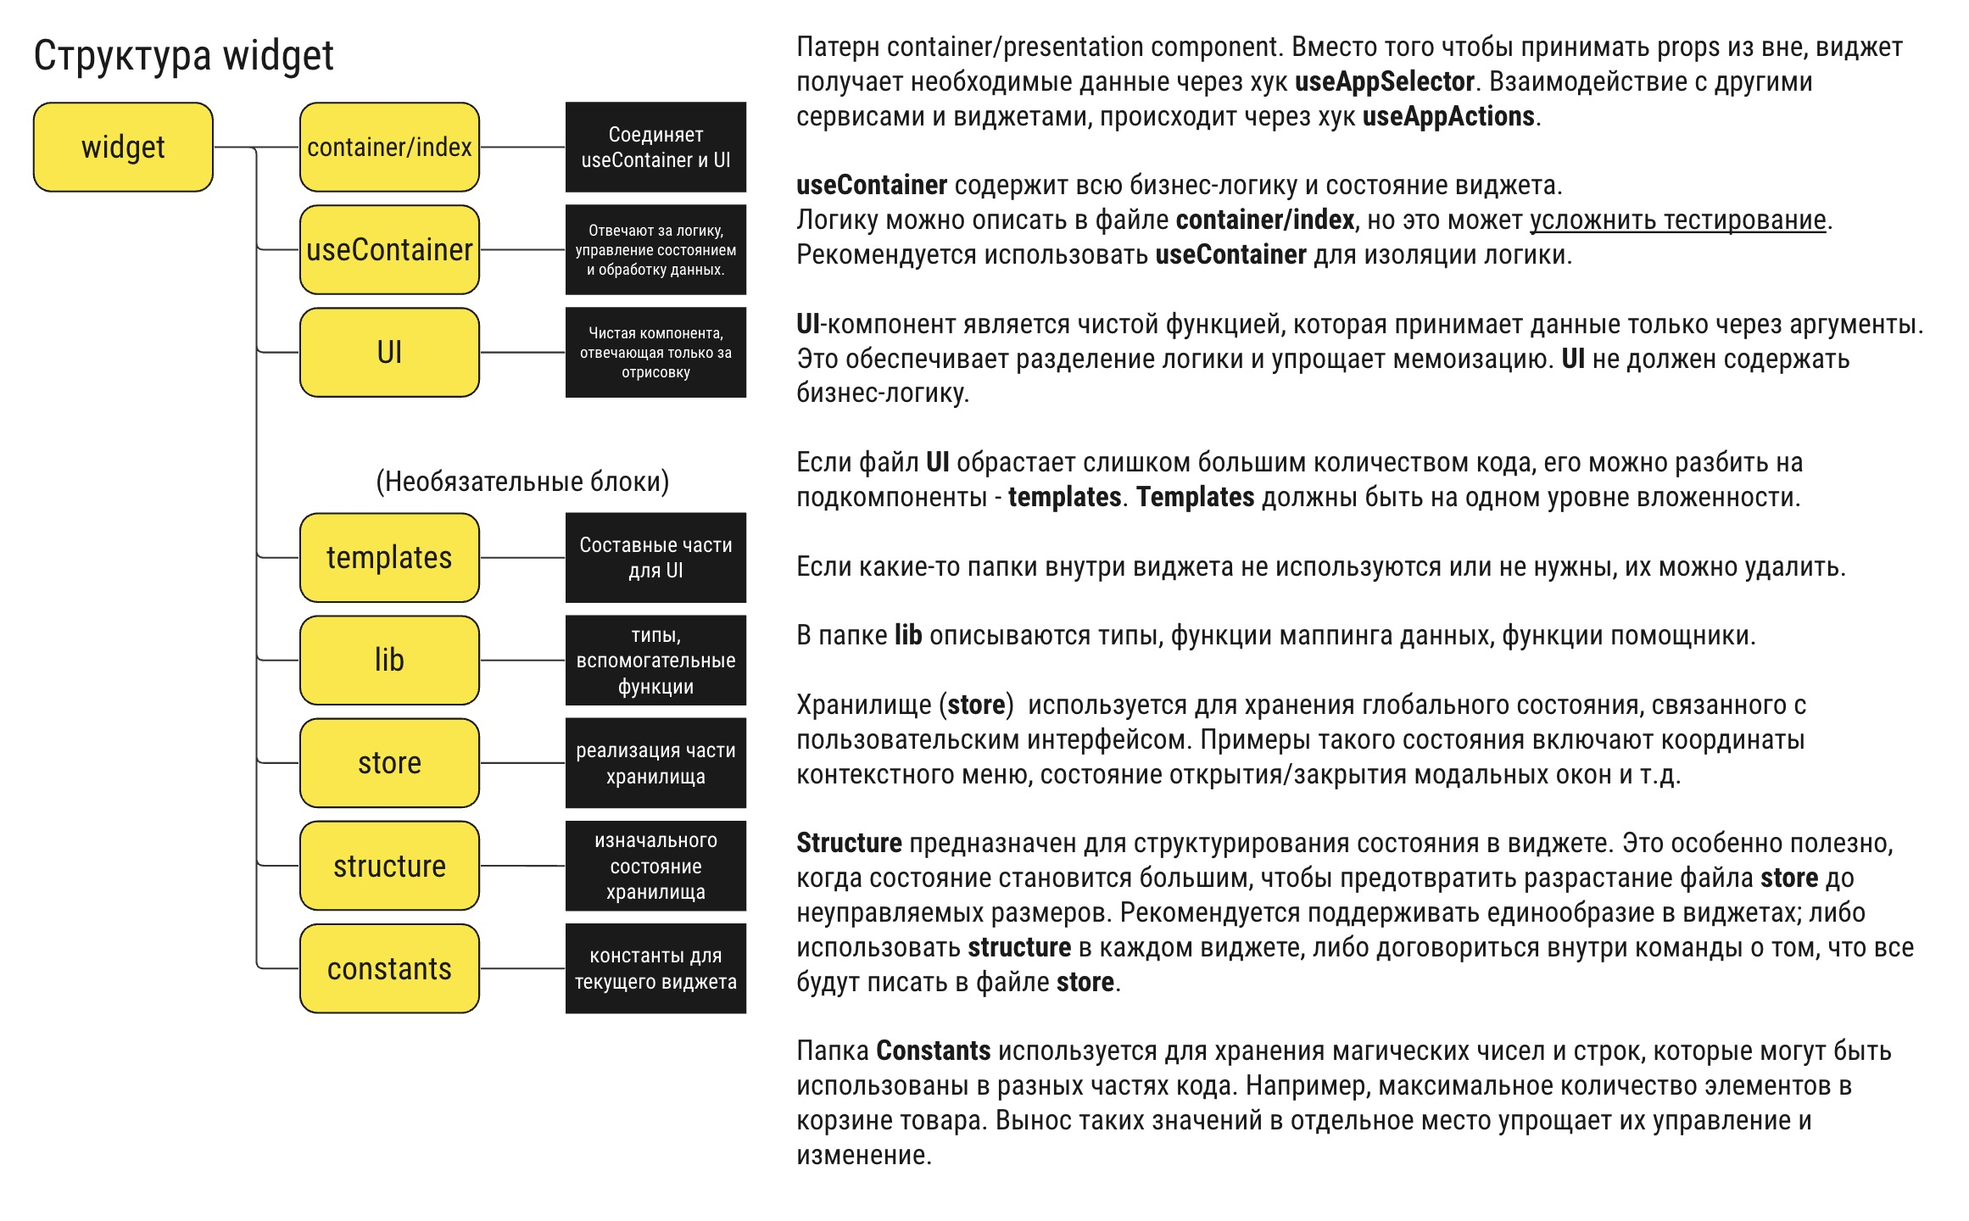
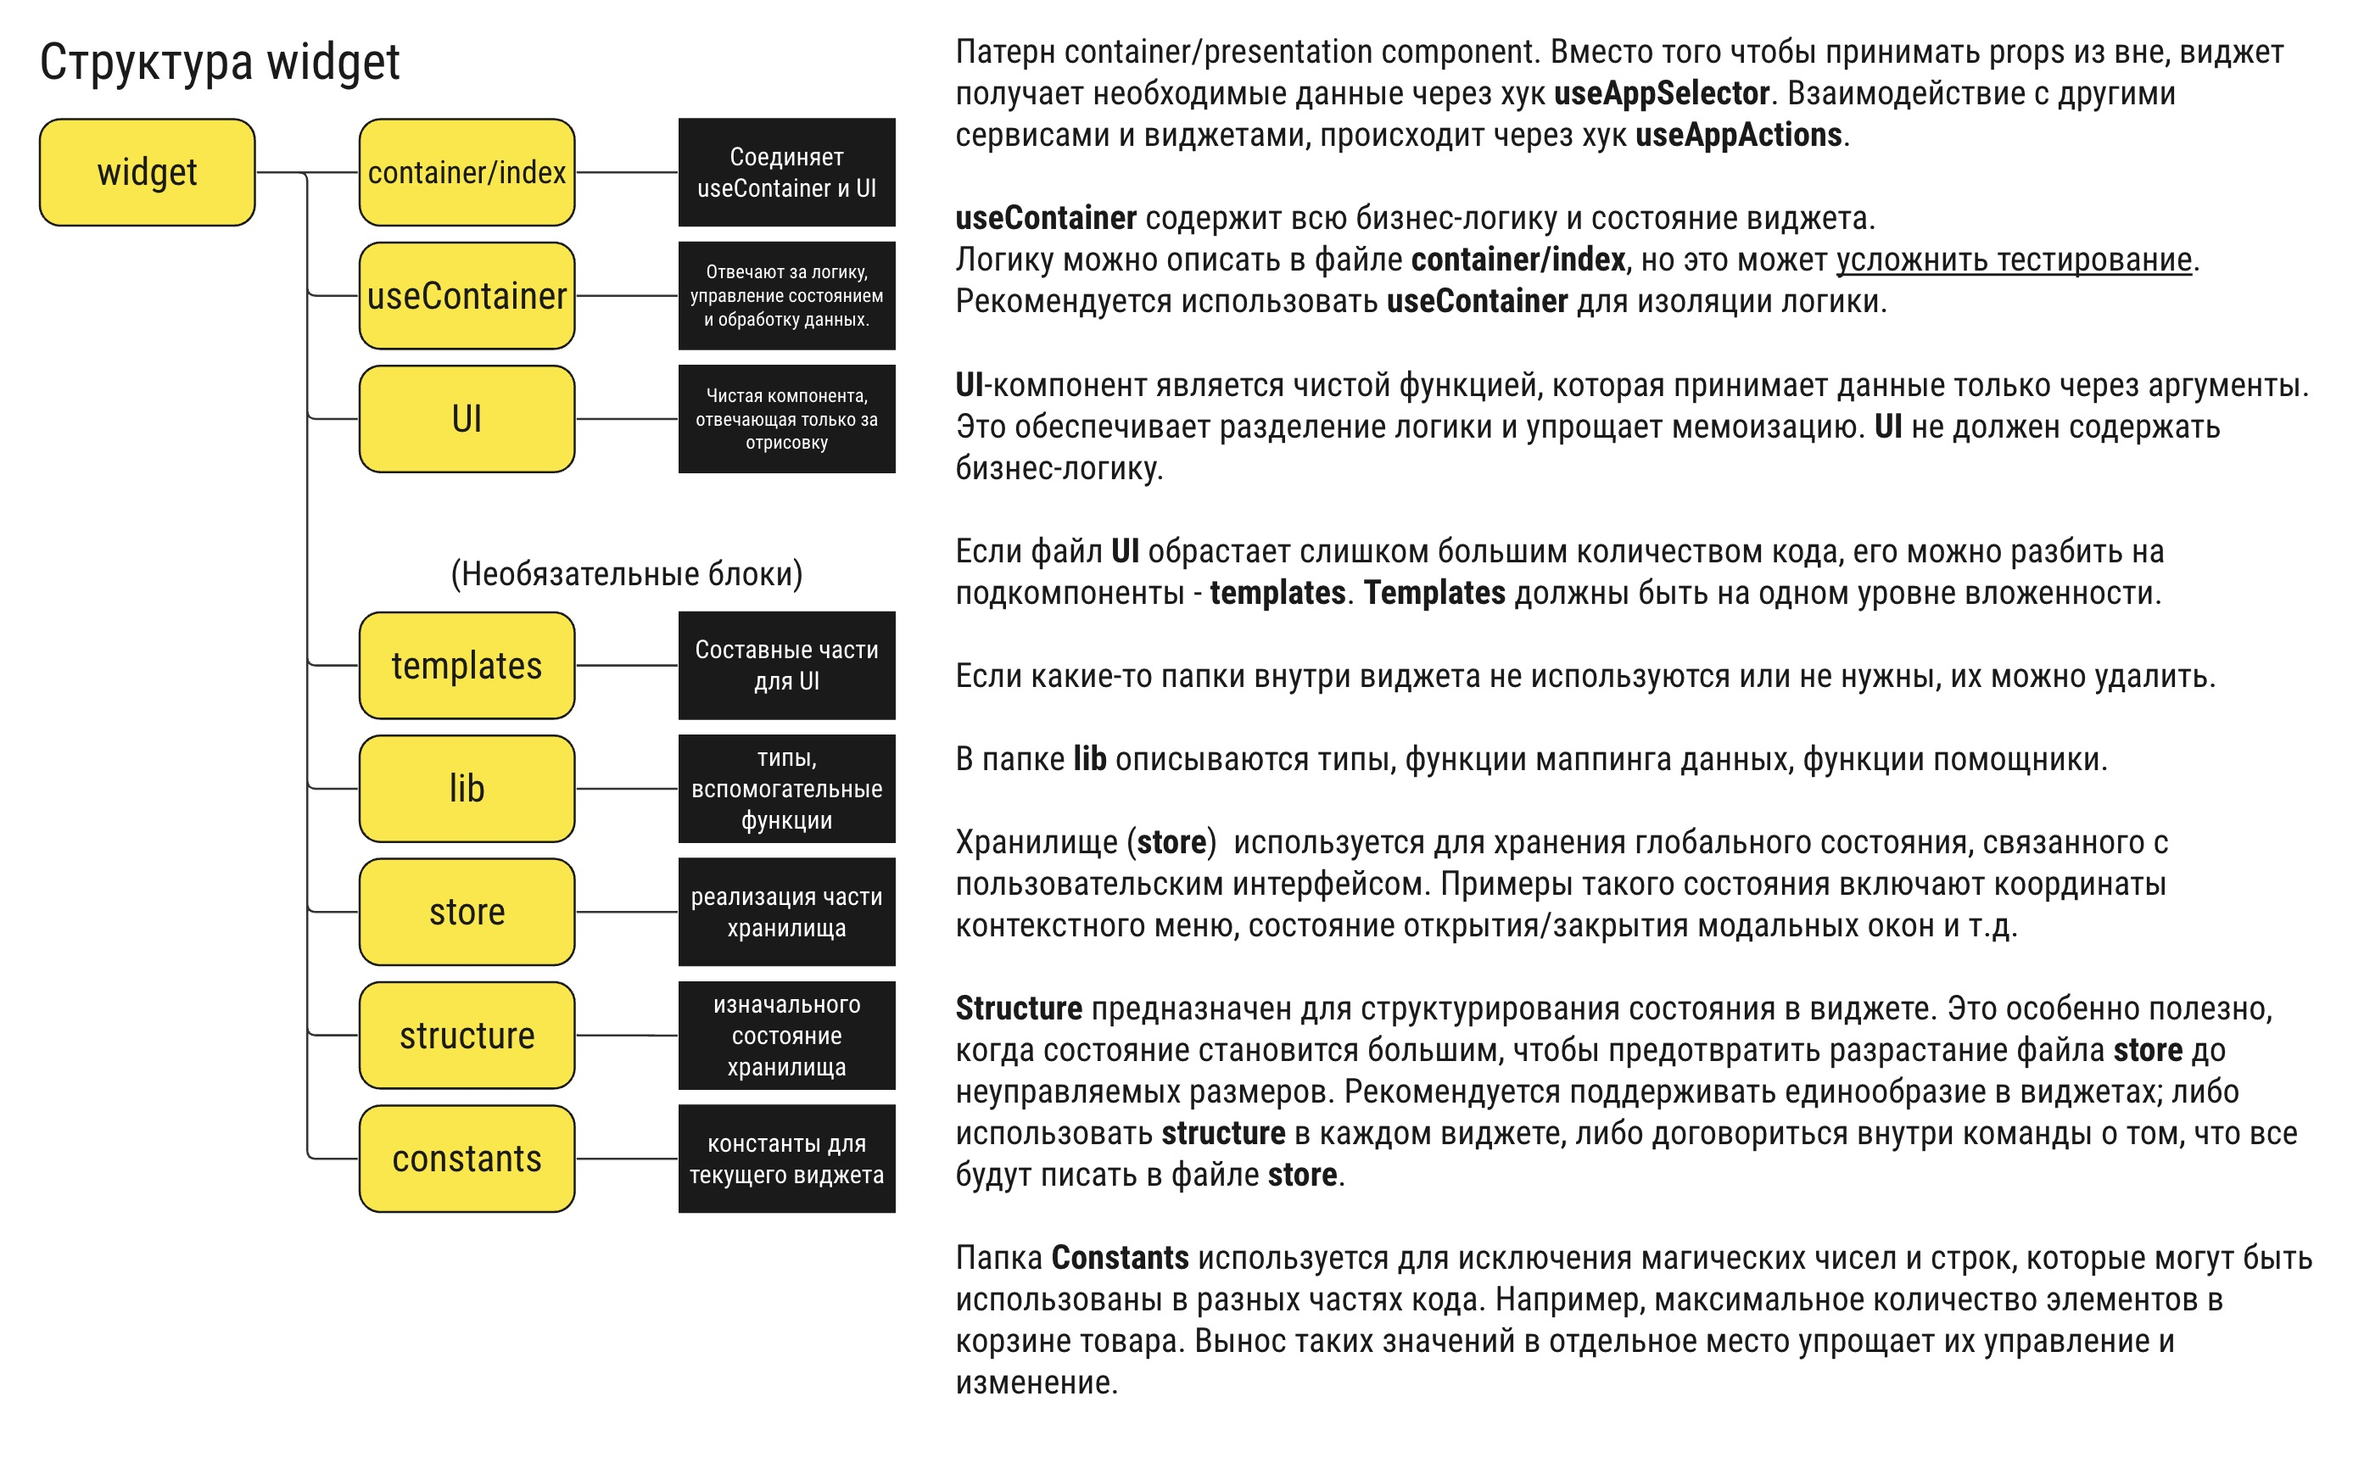
Оптимизация структуры

diff --git a/apps/react_blank/src/features/services/_sample/store/index.ts b/apps/react_blank/src/features/services/_sample/store/index.ts
@@ -1,7 +1,7 @@
 import { createSlice, PayloadAction } from '@reduxjs/toolkit'
 import { name } from '../constants/name'
+import { asyncActions } from '../effects/export'
 import { initialState } from '../structure'
-import { asyncActions } from '../thunks/export'
 
 export const slice = createSlice({
   name,

diff --git a/apps/react_blank/src/app/entry/ui/index.tsx b/apps/react_blank/src/app/entry/ui/index.tsx
@@ -3,7 +3,7 @@ import { AppRouter } from '@app/router'
 import { appSize } from '@services/appSize'
 import { condition } from '@services/condition'
 
-import '@services/localization'
+import 'app/localization'
 
 export const App: FC = () => (
   <div>

diff --git a/apps/react_blank/.config.locale.js b/apps/react_blank/.config.locale.js
@@ -1,6 +1,6 @@
 const path = require('path')
 
-const localesFolder = './src/features/services/localization/locales'
+const localesFolder = './src/app/localization/locales'
 
 module.exports = {
   apiKey: 'AIzaSyAT2uFOrgZVvZTMmQPk7slY98d80BWcjtk',

diff --git a/apps/react_blank/src/features/services/_sample/index.tsx b/apps/react_blank/src/features/services/_sample/index.tsx
@@ -1,6 +1,6 @@
 import { RestAPI } from './api'
 import { useContainer } from './container'
-import * as Selectors from './selectors'
+import * as Selectors from './mappers'
 import { Actions, Reducer } from './store'
 
 export const sample = {

diff --git a/apps/react_blank/README.md b/apps/react_blank/README.md
@@ -1,10 +1,26 @@
 # Архитектура
 
-> Основой архитектуры является **_"Вертикальный Срез"_** _(Vertical Slice)_ , сочетающая преимущества _**Feature Slice Design**_ _(FSD)_ и _**Слоеной архитектуры**_ _**(Layered Architecture)**_. Вертикальные срезы повышают модульность, упрощают навигацию по коду и ограничивают изменения в рамках одной фичи. Использование слоев обеспечивает разделение ответственности и упрощает тестирование и поддержку кода. В проекте показан пример на redux toolkit, но вы можете менять технологии как вам вздумается.
+> Основой архитектуры является **_"Вертикальный Срез"_** _(Vertical Slice)_ , сочетающая преимущества
+_**Feature Slice Design**_ _(FSD)_ и _**Слоеной архитектуры**_ _**(Layered Architecture)**_. Вертикальные срезы повышают
+> модульность, упрощают навигацию по коду и ограничивают изменения в рамках одной фичи. Использование слоев обеспечивает
+> разделение ответственности и упрощает тестирование и поддержку кода. В проекте показан пример на redux toolkit, но вы
+> можете менять технологии как вам вздумается.
 
 ![img.png](docs/i1.png)
 
 > Слой **_app_**: инициализация приложения.
+
+> Слой **_service_**: отдельные логические реализации:
+>
+> Все **_service_** должны наименоваться с маленькой буквы в файле index.tsx, чтобы не было совпадений с _**widget**_.
+> + **container:** _(необязательно)_ реализация логики;
+> + **store:** _(необязательно)_ Business Logic, хранилище данных;
+> + **structure:** _(необязательно)_ изначальное состояние store;
+> + **api:** _(необязательно)_  Data Access Layer / repository;
+> + **effects:** _(необязательно)_ thunks / saga / effects, слой для соединения api и store';
+> + **mappers:** _(необязательно)_  Mapping Layer для трансформации данных из Business Logic Layer в UI.
+> + **lib:** _(необязательно)_  utility функции, типизация;
+> + **constants:** _(необязательно)_ переменные для исключения магических чисел и строк (magic numbers).
 
 > Слой **_generated_** заменяет 99% сервисов
 >
@@ -14,37 +30,51 @@
 > ```
 > Скрипт автоматически добавит **_reducers_** и **_middleware_** в приложение.
 
-> Слой **_service_**: отдельные логические реализации:
->
-> Все **_service_** должны наименоваться с маленькой буквы в файле index.tsx, чтобы не было совпадений с _**widget**_.
-> + **structure:** изначальное состояние slice;
-> + **store:** настройка slice и actions;
-> + **container:** реализация логики _(Файл useContainer нужен для модульного тестирования логики)_; 
-> + **thunks:** _(необязательно)_  для каждой thunk свой файл, закидываются в export, а далее сами импортируются в store ';
-> + **api:** _(необязательно)_  Data Access Layer;
-> + **lib:** _(необязательно)_  utility функции, типизация;
-> + **selectors:** _(необязательно)_  Реселекты для мемоизации бизнес логики.
-
 > Слой **_widget_**: отдельные блоки приложения:
 >
 > Все **_widget_** должны именоваться с большой буквы в файле index.tsx, чтобы не было совпадений с **_service_**.
-> + **container/useContainer.ts:** все side effects для ui, мемоизация логики _(Файл useContainer нужен для модульного тестирования логики)_;
+> + **container/useContainer.ts:** все side effects для ui, мемоизация логики _(Файл useContainer нужен для модульного
+    тестирования логики)_;
 > + **ui:** чистая компонента, отвечающая только за отрисовку;
 > + **templates:** _(необязательно)_  декомпозиция UI для более простого масштабирования приложения в будущем;
-> + **lib:** _(необязательно)_  utility функции;
-> + **store:** _(необязательно)_  обычно используется для локального состояния загрузки или других процессов, которые зависят от других thunks;
-> + **structure:** _(необязательно)_ изначальное состояние slice;
+> + **store:** _(необязательно)_  Business Logic, хранилище данных, локальное состояния связанное с ui, например:
+    координаты контекстного меню;
+> + **structure:** _(необязательно)_ изначальное состояние store;
+> + **lib:** _(необязательно)_  utility функции, типизация;
 > + **constants:** _(необязательно)_ переменные для исключения магических чисел и строк (magic numbers).
 
 ![img.png](docs/widget.png)
+<details>
+    <summary>
+Текст с Изображения
+    </summary>
 
+Патерн container/presentation component. Вместо того чтобы принимать props из вне, виджет получает необходимые данные через хук <b>useAppSelector</b> . Взаимодействие с другими сервисами и виджетами, происходит через хук <b>useAppActions</b> .
+
+<b>useContainer</b> содержит всю бизнес-логику и состояние виджета.
+Логику можно описать в файле <b>container/index</b> , но это может усложнить тестирование. Рекомендуется использовать <b>useContainer</b>  для изоляции логики.
+
+<b>UI</b> -компонент является чистой функцией, которая принимает данные только через аргументы. Это обеспечивает разделение логики и упрощает мемоизацию. <b>UI</b>  не должен содержать бизнес-логику.
+
+Если файл <b>UI</b>  обрастает слишком большим количеством кода, его можно разбить на подкомпоненты - <b>templates</b> . <b>Templates</b>  должны быть на одном уровне вложенности.
+
+Если какие-то папки внутри виджета не используются или не нужны, их можно удалить.
+
+В папке <b>lib</b>  описываются типы, функции маппинга данных, функции помощники.
+
+Хранилище <b>(store)</b>  используется для хранения глобального состояния, связанного с пользовательским интерфейсом. Примеры такого состояния включают координаты контекстного меню, состояние открытия/закрытия модальных окон и т.д.
+
+<b>Structure</b>  предназначен для структурирования состояния в виджете. Это особенно полезно, когда состояние становится большим, чтобы предотвратить разрастание файла <b>store</b>  до неуправляемых размеров. Рекомендуется поддерживать единообразие в виджетах; либо использовать <b>structure</b>  в каждом виджете, либо договориться внутри команды о том, что все будут писать в файле <b>store</b> .
+
+Папка <b>Constants</b>  используется для исключения магических чисел и строк, которые могут быть использованы в разных частях кода. Например, максимальное количество элементов в корзине товара. Вынос таких значений в отдельное место упрощает их управление и изменение.
+</details>
 
 > Слой **_layouts_**: верстка каркасов приложения.
 
 > Слой **_pages_**: верстка страницы, объединяющая отдельные логические реализации.
 
 > ## useAppActions
-> Хук-адаптер позволяет доставать любые действия взаимодействия с **_store_**:
+> Хук-адаптер позволяет использовать любые действия для взаимодействия с **_store_**:
 > ```javascript
 > const { conditionActions: { enqueueNotification } } = useAppActions()
 > ``` 
